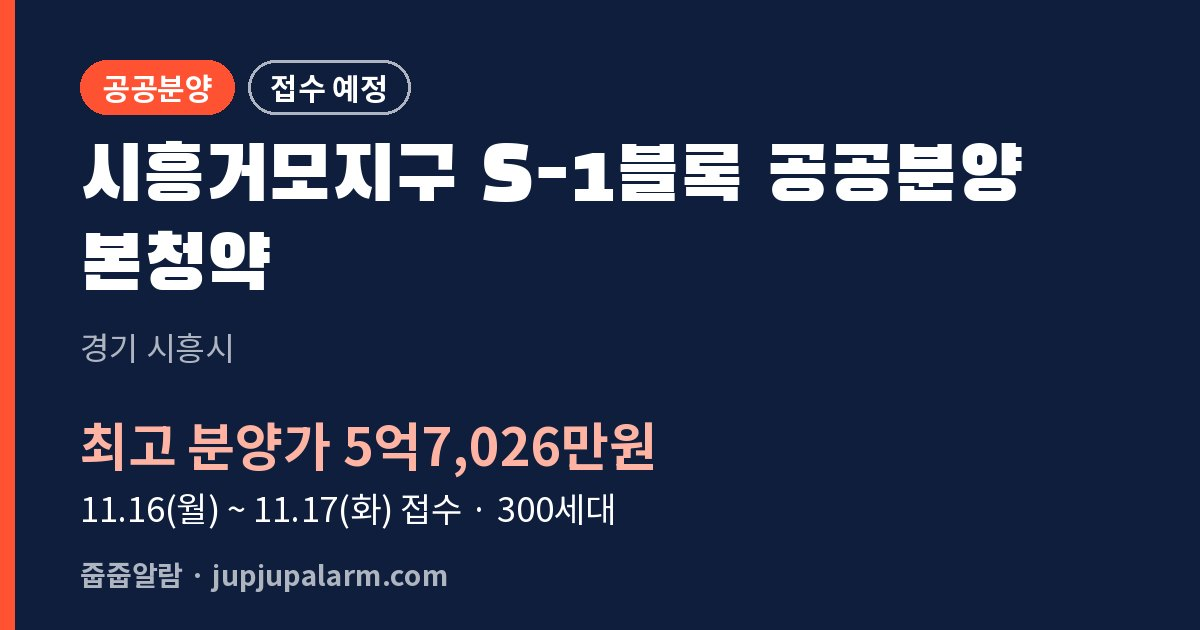
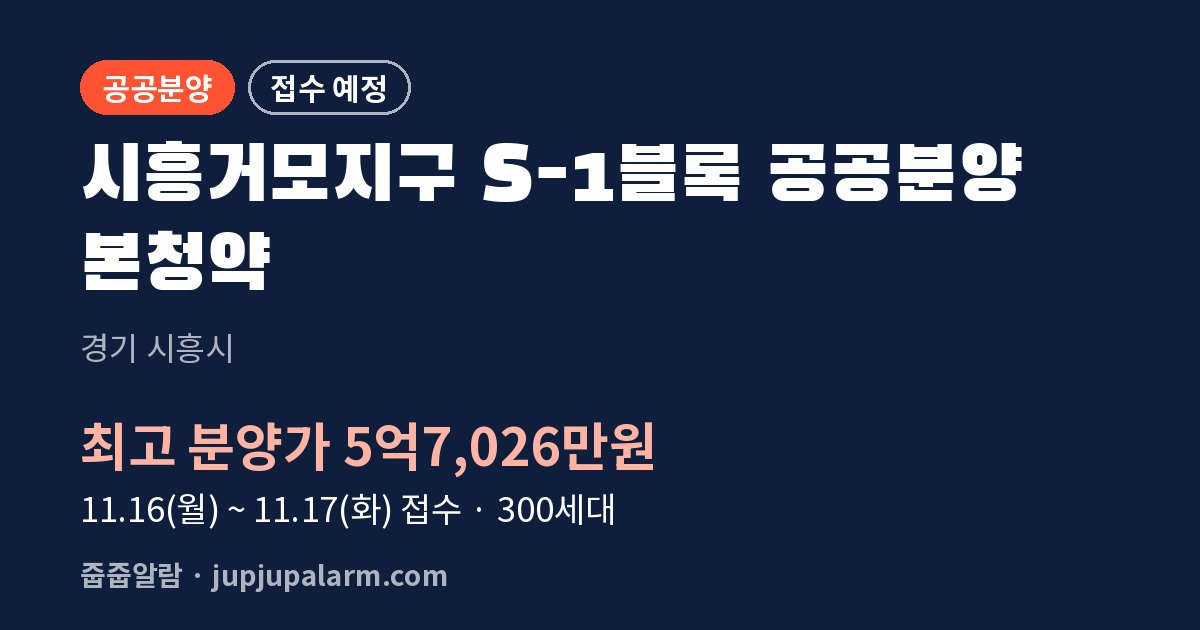
site: 공유 썸네일 왼쪽 빨간 줄 제거 (남색 배경만)
Claude-Session: https://claude.ai/code/session_01BX5Lyfw1Hj3UPpyFh8mqbq

Changed region(s): [[0.0, 0.0, 0.0308, 1.0]]

diff --git a/site/build.py b/site/build.py
@@ -634,7 +634,6 @@ def og_card(n, dst):
             x += dr.textlength(seg, font=g)
     X = 80
     maxw = W - X - 70
-    dr.rectangle((0, 0, 14, H), fill="#FF5233")
     # 분류·상태 칩
     x, y = X, 60
     f = fn(30)
